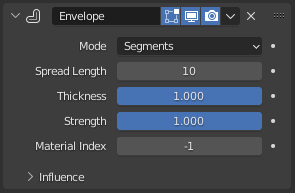
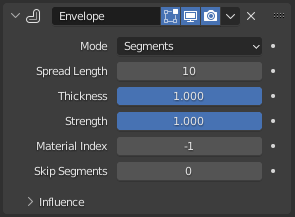
GPencil: Envelope Modifier update
git-svn-id: https://svn.blender.org/svnroot/bf-manual/trunk/blender_docs@9225 c4de1f47-6596-e411-a384-0024e86c2797

diff --git a/manual/grease_pencil/modifiers/generate/envelope.rst b/manual/grease_pencil/modifiers/generate/envelope.rst
@@ -33,6 +33,9 @@ Strength
 Material Index
    Defines the material to use on the generated stroke segments.
 
+Skip Segments
+   The Number of generated stroke segments to skip to reduce complexity.
+
 
 Influence Filters
 -----------------
